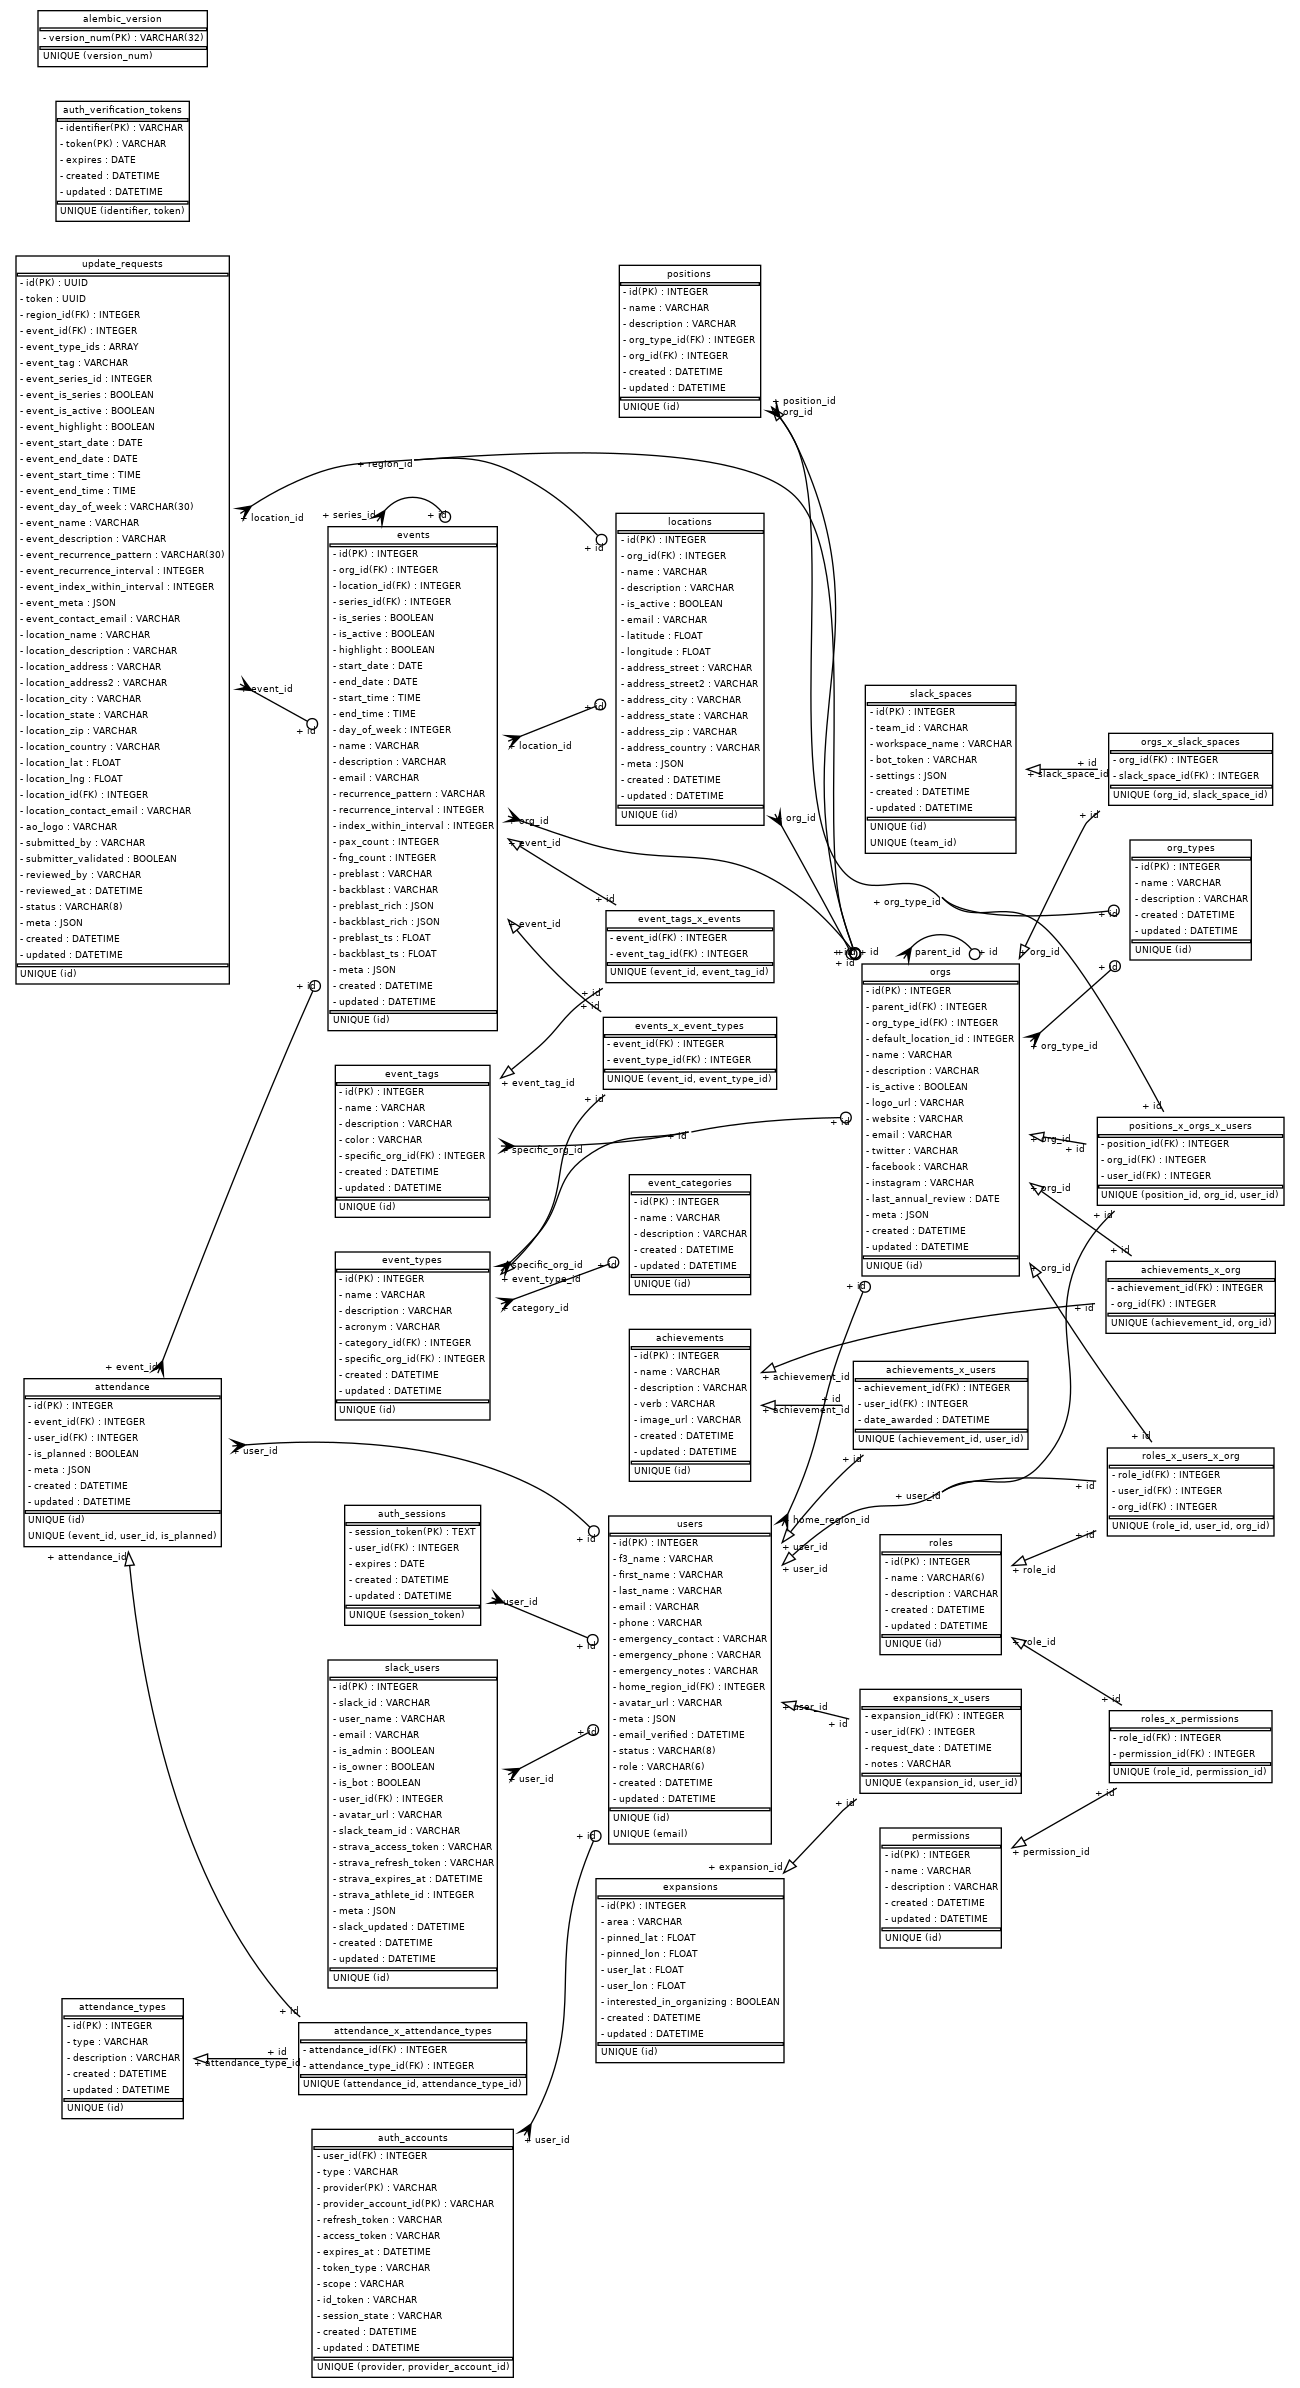
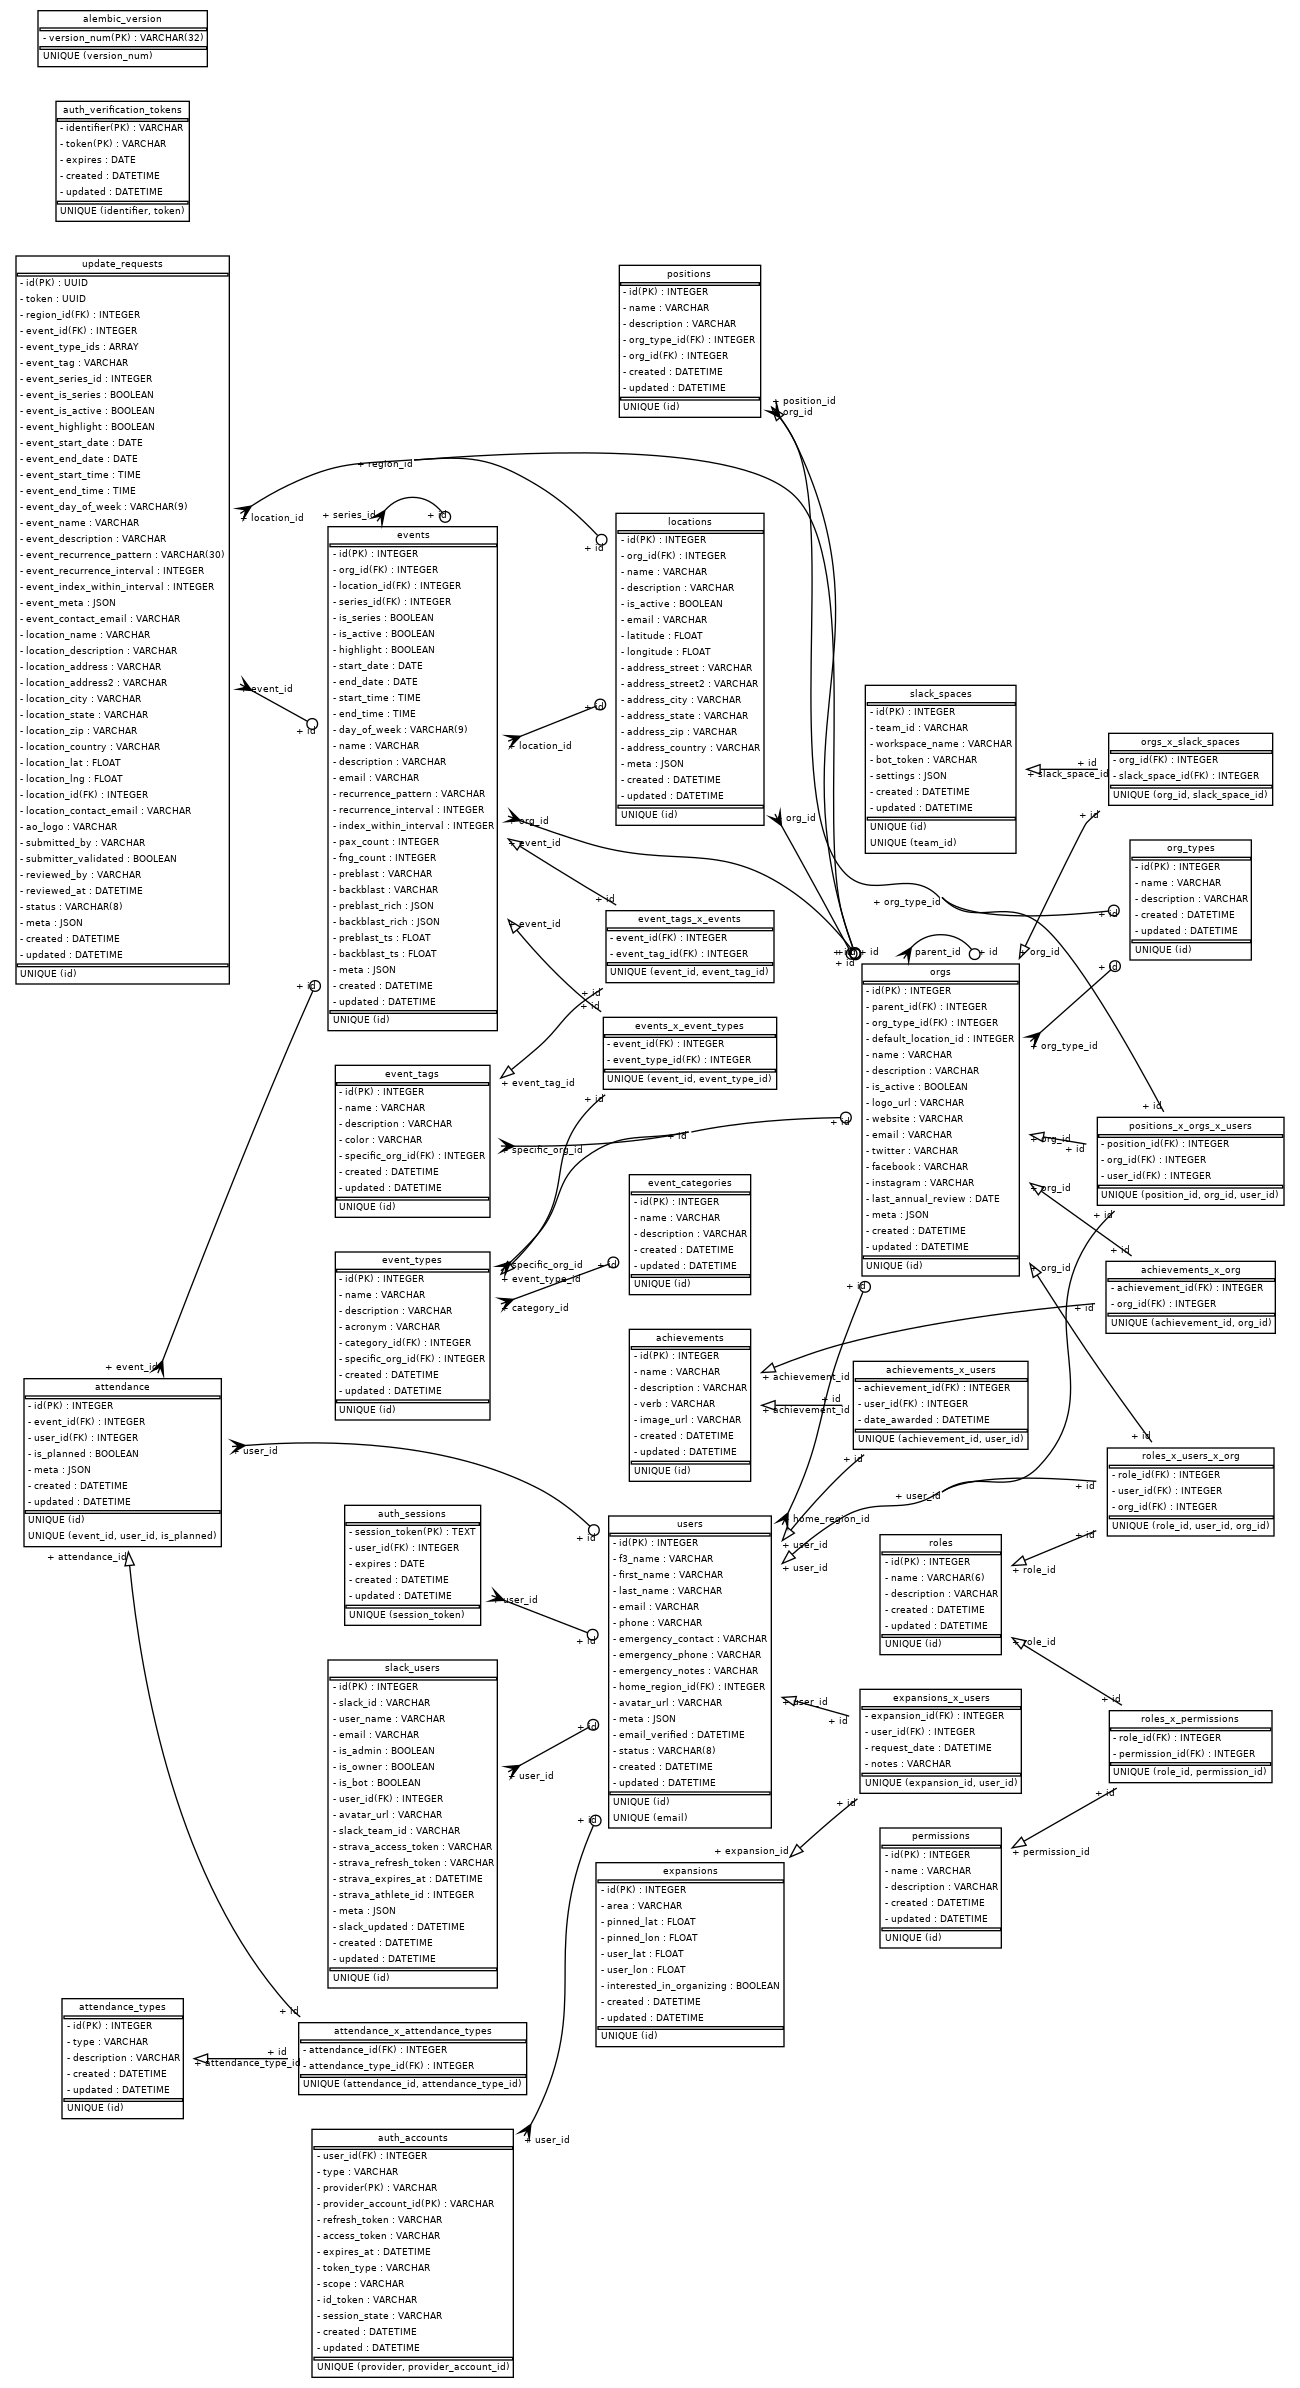
dropped users.role, changed times to notz, and set day_of_week cols to enum

Changed region(s): [[0.4308, 0.7437, 0.6154, 0.8677], [0.5846, 0.6198, 0.6462, 0.6508], [0.4308, 0.7127, 0.4615, 0.7437]]

diff --git a/alembic/versions/daf2164fbff4_dropped_users_role_times_to_notz_.py b/alembic/versions/daf2164fbff4_dropped_users_role_times_to_notz_.py
@@ -1,0 +1,249 @@
+"""dropped users.role, times to notz, dayofweek to enum
+
+Revision ID: daf2164fbff4
+Revises: dd60768a20e2
+Create Date: 2025-02-14 06:09:34.358936
+
+"""
+
+from typing import Sequence, Union
+
+from alembic import op
+import sqlalchemy as sa
+from sqlalchemy.dialects import postgresql
+
+# revision identifiers, used by Alembic.
+revision: str = "daf2164fbff4"
+down_revision: Union[str, None] = "dd60768a20e2"
+branch_labels: Union[str, Sequence[str], None] = None
+depends_on: Union[str, Sequence[str], None] = None
+
+
+def upgrade() -> None:
+    # ### commands auto generated by Alembic - please adjust! ###
+    # alter events.day_of_week to mapped varchar (0->monday, 1->tuesday, ...)
+    op.execute(
+        "ALTER TABLE events ALTER COLUMN day_of_week TYPE VARCHAR USING day_of_week::text"
+    )
+    op.execute("UPDATE events SET day_of_week = 'monday' WHERE day_of_week = '0'")
+    op.execute("UPDATE events SET day_of_week = 'tuesday' WHERE day_of_week = '1'")
+    op.execute("UPDATE events SET day_of_week = 'wednesday' WHERE day_of_week = '2'")
+    op.execute("UPDATE events SET day_of_week = 'thursday' WHERE day_of_week = '3'")
+    op.execute("UPDATE events SET day_of_week = 'friday' WHERE day_of_week = '4'")
+    op.execute("UPDATE events SET day_of_week = 'saturday' WHERE day_of_week = '5'")
+    op.execute("UPDATE events SET day_of_week = 'sunday' WHERE day_of_week = '6'")
+    op.execute(
+        "UPDATE update_requests SET event_day_of_week = 'monday' WHERE event_day_of_week = '0'"
+    )
+    op.execute(
+        "UPDATE update_requests SET event_day_of_week = 'tuesday' WHERE event_day_of_week = '1'"
+    )
+    op.execute(
+        "UPDATE update_requests SET event_day_of_week = 'wednesday' WHERE event_day_of_week = '2'"
+    )
+    op.execute(
+        "UPDATE update_requests SET event_day_of_week = 'thursday' WHERE event_day_of_week = '3'"
+    )
+    op.execute(
+        "UPDATE update_requests SET event_day_of_week = 'friday' WHERE event_day_of_week = '4'"
+    )
+    op.execute(
+        "UPDATE update_requests SET event_day_of_week = 'saturday' WHERE event_day_of_week = '5'"
+    )
+    op.execute(
+        "UPDATE update_requests SET event_day_of_week = 'sunday' WHERE event_day_of_week = '6'"
+    )
+    sa.Enum(
+        "monday",
+        "tuesday",
+        "wednesday",
+        "thursday",
+        "friday",
+        "saturday",
+        "sunday",
+        name="day_of_week",
+    ).create(op.get_bind())
+    op.alter_column(
+        "events",
+        "start_time",
+        existing_type=postgresql.TIME(timezone=True),
+        type_=sa.Time(),
+        existing_nullable=True,
+    )
+    op.alter_column(
+        "events",
+        "end_time",
+        existing_type=postgresql.TIME(timezone=True),
+        type_=sa.Time(),
+        existing_nullable=True,
+    )
+    op.alter_column(
+        "events",
+        "day_of_week",
+        existing_type=sa.VARCHAR(),
+        type_=sa.Enum(
+            "monday",
+            "tuesday",
+            "wednesday",
+            "thursday",
+            "friday",
+            "saturday",
+            "sunday",
+            name="day_of_week",
+        ),
+        existing_nullable=True,
+        postgresql_using="day_of_week::day_of_week",
+    )
+    op.alter_column(
+        "update_requests",
+        "event_day_of_week",
+        existing_type=sa.VARCHAR(),
+        type_=sa.Enum(
+            "monday",
+            "tuesday",
+            "wednesday",
+            "thursday",
+            "friday",
+            "saturday",
+            "sunday",
+            name="day_of_week",
+        ),
+        existing_nullable=True,
+        postgresql_using="event_day_of_week::day_of_week",
+    )
+    op.alter_column(
+        "update_requests",
+        "location_lat",
+        existing_type=sa.REAL(),
+        type_=sa.Float(precision=8, decimal_return_scale=5),
+        existing_nullable=True,
+    )
+    op.alter_column(
+        "update_requests",
+        "location_lng",
+        existing_type=sa.REAL(),
+        type_=sa.Float(precision=8, decimal_return_scale=5),
+        existing_nullable=True,
+    )
+    op.drop_column("users", "role")
+    sa.Enum("user", "editor", "admin", name="user_role").drop(op.get_bind())
+    # ### end Alembic commands ###
+
+
+def downgrade() -> None:
+    # ### commands auto generated by Alembic - please adjust! ###
+    sa.Enum("user", "editor", "admin", name="user_role").create(op.get_bind())
+    op.add_column(
+        "users",
+        sa.Column(
+            "role",
+            postgresql.ENUM(
+                "user", "editor", "admin", name="user_role", create_type=False
+            ),
+            server_default=sa.text("'user'::user_role"),
+            autoincrement=False,
+            nullable=False,
+        ),
+    )
+    op.alter_column(
+        "update_requests",
+        "location_lng",
+        existing_type=sa.Float(precision=8, decimal_return_scale=5),
+        type_=sa.REAL(),
+        existing_nullable=True,
+    )
+    op.alter_column(
+        "update_requests",
+        "location_lat",
+        existing_type=sa.Float(precision=8, decimal_return_scale=5),
+        type_=sa.REAL(),
+        existing_nullable=True,
+    )
+    op.alter_column(
+        "update_requests",
+        "event_day_of_week",
+        existing_type=sa.Enum(
+            "monday",
+            "tuesday",
+            "wednesday",
+            "thursday",
+            "friday",
+            "saturday",
+            "sunday",
+            name="day_of_week",
+        ),
+        type_=sa.VARCHAR(length=30),
+        existing_nullable=True,
+    )
+    op.alter_column(
+        "events",
+        "day_of_week",
+        existing_type=sa.Enum(
+            "monday",
+            "tuesday",
+            "wednesday",
+            "thursday",
+            "friday",
+            "saturday",
+            "sunday",
+            name="day_of_week",
+        ),
+        type_=sa.VARCHAR(),
+        existing_nullable=True,
+    )
+    op.execute("UPDATE events SET day_of_week = '0' WHERE day_of_week = 'monday'")
+    op.execute("UPDATE events SET day_of_week = '1' WHERE day_of_week = 'tuesday'")
+    op.execute("UPDATE events SET day_of_week = '2' WHERE day_of_week = 'wednesday'")
+    op.execute("UPDATE events SET day_of_week = '3' WHERE day_of_week = 'thursday'")
+    op.execute("UPDATE events SET day_of_week = '4' WHERE day_of_week = 'friday'")
+    op.execute("UPDATE events SET day_of_week = '5' WHERE day_of_week = 'saturday'")
+    op.execute("UPDATE events SET day_of_week = '6' WHERE day_of_week = 'sunday'")
+    op.execute(
+        "ALTER TABLE events ALTER COLUMN day_of_week TYPE INTEGER USING day_of_week::integer"
+    )
+    op.execute(
+        "UPDATE update_requests SET event_day_of_week = '0' WHERE event_day_of_week = 'monday'"
+    )
+    op.execute(
+        "UPDATE update_requests SET event_day_of_week = '1' WHERE event_day_of_week = 'tuesday'"
+    )
+    op.execute(
+        "UPDATE update_requests SET event_day_of_week = '2' WHERE event_day_of_week = 'wednesday'"
+    )
+    op.execute(
+        "UPDATE update_requests SET event_day_of_week = '3' WHERE event_day_of_week = 'thursday'"
+    )
+    op.execute(
+        "UPDATE update_requests SET event_day_of_week = '4' WHERE event_day_of_week = 'friday'"
+    )
+    op.execute(
+        "UPDATE update_requests SET event_day_of_week = '5' WHERE event_day_of_week = 'saturday'"
+    )
+    op.execute(
+        "UPDATE update_requests SET event_day_of_week = '6' WHERE event_day_of_week = 'sunday'"
+    )
+    op.alter_column(
+        "events",
+        "end_time",
+        existing_type=sa.Time(),
+        type_=postgresql.TIME(timezone=True),
+        existing_nullable=True,
+    )
+    op.alter_column(
+        "events",
+        "start_time",
+        existing_type=sa.Time(),
+        type_=postgresql.TIME(timezone=True),
+        existing_nullable=True,
+    )
+    sa.Enum(
+        "monday",
+        "tuesday",
+        "wednesday",
+        "thursday",
+        "friday",
+        "saturday",
+        "sunday",
+        name="day_of_week",
+    ).drop(op.get_bind())
+    # ### end Alembic commands ###

diff --git a/f3_data_models/models.py b/f3_data_models/models.py
@@ -45,28 +45,38 @@ dt_update = Annotated[
 ]
 
 
-class UserStatus(enum.Enum):
+class User_Status(enum.Enum):
     active = 1
     inactive = 2
     deleted = 3
 
 
-class RegionRole(enum.Enum):
+class Region_Role(enum.Enum):
     user = 1
     editor = 2
     admin = 3
 
 
-class UserRole(enum.Enum):
+class User_Role(enum.Enum):
     user = 1
     editor = 2
     admin = 3
 
 
-class UpdateRequestStatus(enum.Enum):
+class Update_Request_Status(enum.Enum):
     pending = 1
     approved = 2
     rejected = 3
+
+
+class Day_Of_Week(enum.Enum):
+    monday = 0
+    tuesday = 1
+    wednesday = 2
+    thursday = 3
+    friday = 4
+    saturday = 5
+    sunday = 6
 
 
 class Base(DeclarativeBase):
@@ -219,7 +229,7 @@ class Role(Base):
 
     Attributes:
         id (int): Primary Key of the model.
-        name (RegionRole): The name of the role.
+        name (Region_Role): The name of the role.
         description (Optional[text]): A description of the role.
         created (datetime): The timestamp when the record was created.
         updated (datetime): The timestamp when the record was last updated.
@@ -228,7 +238,7 @@ class Role(Base):
     __tablename__ = "roles"
 
     id: Mapped[intpk]
-    name: Mapped[RegionRole]
+    name: Mapped[Region_Role]
     description: Mapped[Optional[text]]
     created: Mapped[dt_create]
     updated: Mapped[dt_update]
@@ -546,8 +556,12 @@ class Location(Base):
     description: Mapped[Optional[text]]
     is_active: Mapped[bool]
     email: Mapped[Optional[str]]
-    latitude: Mapped[Optional[float]]
-    longitude: Mapped[Optional[float]]
+    latitude: Mapped[Optional[float]] = mapped_column(
+        Float(precision=8, decimal_return_scale=5)
+    )
+    longitude: Mapped[Optional[float]] = mapped_column(
+        Float(precision=8, decimal_return_scale=5)
+    )
     address_street: Mapped[Optional[str]]
     address_street2: Mapped[Optional[str]]
     address_city: Mapped[Optional[str]]
@@ -575,7 +589,7 @@ class Event(Base):
         end_date (Optional[date]): The end date of the event.
         start_time (Optional[time_with_tz]): The start time of the event.
         end_time (Optional[time_with_tz]): The end time of the event.
-        day_of_week (Optional[int]): The day of the week of the event. (0=Monday, 6=Sunday)
+        day_of_week (Optional[Day_Of_Week]): The day of the week of the event.
         name (str): The name of the event.
         description (Optional[text]): A description of the event.
         email (Optional[str]): A contact email address associated with the event.
@@ -613,9 +627,9 @@ class Event(Base):
     highlight: Mapped[bool] = mapped_column(Boolean, default=False)
     start_date: Mapped[date]
     end_date: Mapped[Optional[date]]
-    start_time: Mapped[Optional[time_with_tz]]
-    end_time: Mapped[Optional[time_with_tz]]
-    day_of_week: Mapped[Optional[int]]
+    start_time: Mapped[Optional[time_notz]]
+    end_time: Mapped[Optional[time_notz]]
+    day_of_week: Mapped[Optional[Day_Of_Week]]
     name: Mapped[str]
     description: Mapped[Optional[text]]
     email: Mapped[Optional[str]]
@@ -733,10 +747,9 @@ class User(Base):
     avatar_url: Mapped[Optional[str]]
     meta: Mapped[Optional[Dict[str, Any]]]
     email_verified: Mapped[Optional[datetime]]
-    status: Mapped[UserStatus] = mapped_column(
-        Enum(UserStatus), default=UserStatus.active
+    status: Mapped[User_Status] = mapped_column(
+        Enum(User_Status), default=User_Status.active
     )
-    role: Mapped[UserRole] = mapped_column(Enum(UserRole), default=UserRole.user)
     created: Mapped[dt_create]
     updated: Mapped[dt_update]
 
@@ -1091,7 +1104,7 @@ class UpdateRequest(Base):
         event_end_date (Optional[date]): The end date of the event.
         event_start_time (Optional[time_notz]): The start time of the event.
         event_end_time (Optional[time_notz]): The end time of the event.
-        event_day_of_week (Optional[int]): The day of the week of the event.
+        event_day_of_week (Optional[Day_Of_Week]): The day of the week of the event.
         event_name (str): The name of the event.
         event_description (Optional[text]): A description of the event.
         event_recurrence_pattern (Optional[str]): The recurrence pattern of the event.
@@ -1116,7 +1129,7 @@ class UpdateRequest(Base):
         submitter_validated (Optional[bool]): Whether the submitter has validated the request. Default is False.
         reviewed_by (Optional[str]): The user who reviewed the request.
         reviewed_at (Optional[datetime]): The timestamp when the request was reviewed.
-        status (UpdateRequestStatus): The status of the request. Default is 'pending'.
+        status (Update_Request_Status): The status of the request. Default is 'pending'.
         meta (Optional[Dict[str, Any]]): Additional metadata for the request.
         created (datetime): The timestamp when the record was created.
         updated (datetime): The timestamp when the record was last updated.
@@ -1138,7 +1151,7 @@ class UpdateRequest(Base):
     event_end_date: Mapped[Optional[date]]
     event_start_time: Mapped[Optional[time_notz]]
     event_end_time: Mapped[Optional[time_notz]]
-    event_day_of_week: Mapped[Optional[str]] = mapped_column(VARCHAR(length=30))
+    event_day_of_week: Mapped[Optional[Day_Of_Week]]
     event_name: Mapped[str]
     event_description: Mapped[Optional[text]]
     event_recurrence_pattern: Mapped[Optional[str]] = mapped_column(VARCHAR(length=30))
@@ -1170,8 +1183,8 @@ class UpdateRequest(Base):
     submitter_validated: Mapped[Optional[bool]] = mapped_column(Boolean, default=False)
     reviewed_by: Mapped[Optional[text]]
     reviewed_at: Mapped[Optional[datetime]]
-    status: Mapped[UpdateRequestStatus] = mapped_column(
-        Enum(UpdateRequestStatus), default=UpdateRequestStatus.pending
+    status: Mapped[Update_Request_Status] = mapped_column(
+        Enum(Update_Request_Status), default=Update_Request_Status.pending
     )
     meta: Mapped[Optional[Dict[str, Any]]]
 
